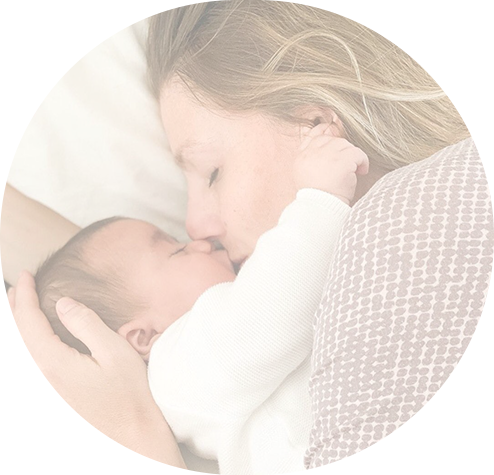
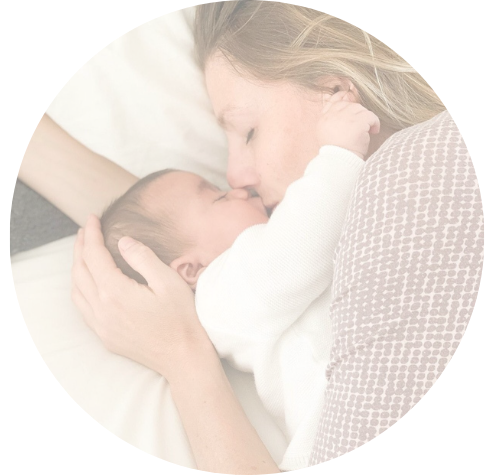
Imágenes detalle disciplina
Eliminado el carrousel. Metido a mano cada imagen

diff --git a/pages/female-health/matronas/visita_postparto/index.js b/pages/female-health/matronas/visita_postparto/index.js
@@ -108,7 +108,7 @@ const Nutrition = props => {
                   <div className={globalStyles.tinyMCEClass}>
                     <div className={'tinymce-class'}>
                       <p><strong>El posparto y la lactancia</strong> no son etapas fáciles de transitar para muchas mujeres. En ocasiones el apoyo profesional puede ser de gran ayuda.</p>
-                      <p>  </p>
+                      
                       <p>Nuestra visita posparto dura, <strong>aproximadamente, 1h30 ́</strong> y, en ella realizamos asesoramiento de lactancia, valoración de madre y bebé y resolvemos dudas relacionadas con vuestros cuidados.</p>
                     </div>
                   </div>
@@ -134,7 +134,11 @@ const Nutrition = props => {
                 </div>
               )}
               <div className={viewport === 'mobile' ? styles.m_carouselSection : styles.carouselSection}>
-                <CarouselService sliderData={sliderData} viewport={viewport} />
+                <img
+                      src={'/images/Matrona_postparto_1.png'}
+                      alt=""
+                      style={{ width: '100%', height: 'auto', opacity: 1 }}
+                    />
               </div>
             </div>
           </div>

diff --git a/pages/female-health/matronas/puesta_pendientes/index.js b/pages/female-health/matronas/puesta_pendientes/index.js
@@ -103,7 +103,7 @@ const Nutrition = props => {
               <div className={viewport === 'mobile' ? styles.m_topDash : styles.topDash} />
               <div className={styles.topDescription + (viewport === 'mobile' ? ' mt-5' : ' mt-10 pb-20')}>
                 <div
-                  className={'relative ' + styles.text + ' ' + (readMoreCurrentState === 'less' ? '' : styles.expand)}
+                  
                 >
                   <div className={globalStyles.tinyMCEClass}>
                     <div className={'tinymce-class'}>
@@ -140,7 +140,11 @@ const Nutrition = props => {
                 </div>
               )}
               <div className={viewport === 'mobile' ? styles.m_carouselSection : styles.carouselSection}>
-                <CarouselService sliderData={sliderData} viewport={viewport} />
+                <img
+                      src={'/images/Matrona_pendientes_1.png'}
+                      alt=""
+                      style={{ width: '100%', height: 'auto', opacity: 1 }}
+                    />
               </div>
             </div>
           </div>

diff --git a/pages/salud-baby/asesoria-del-sueno-infantil/index.js b/pages/salud-baby/asesoria-del-sueno-infantil/index.js
@@ -132,8 +132,13 @@ const Nutrition = props => {
                   <CircularMark viewport={viewport} />
                 </div>
               )}
-              <div className={viewport === 'mobile' ? styles.m_carouselSection : styles.carouselSection}>
-                <CarouselService sliderData={sliderData} viewport={viewport} />
+              <div className={viewport === 'mobile'}>
+                <div className={'w-full mt-20 pb-20'}>
+                  <img
+                    src={'/images/baby_sueno_1.png'} alt="Asesoría del sueño infantil"
+                    style={{ width: '100%', height: 'auto', opacity: 1 }}
+                  />
+                </div>
               </div>
             </div>
           </div>

diff --git a/pages/female-health/matronas/programa_5P/index.js b/pages/female-health/matronas/programa_5P/index.js
@@ -142,7 +142,11 @@ const Nutrition = props => {
                 </div>
               )}
               <div className={viewport === 'mobile' ? styles.m_carouselSection : styles.carouselSection}>
-                <CarouselService sliderData={sliderData} viewport={viewport} />
+                <img
+                      src={'/images/Matrona_5p_1.png'}
+                      alt=""
+                      style={{ width: '100%', height: 'auto', opacity: 1 }}
+                    />
               </div>
             </div>
           </div>

diff --git a/pages/salud-baby/asesoria-de-la-lactancia/index.js b/pages/salud-baby/asesoria-de-la-lactancia/index.js
@@ -140,7 +140,10 @@ const Nutrition = props => {
                 </div>
               )}
               <div className={viewport === 'mobile' ? styles.m_carouselSection : styles.carouselSection}>
-                <CarouselService sliderData={sliderData} viewport={viewport} />
+                <img
+                  src={'/images/baby_lactancia_1.png'} alt="Asesoría de la lactancia"
+                  style={{ width: '100%', height: 'auto', opacity: 1 }}
+                />
               </div>
             </div>
           </div>

diff --git a/pages/salud-baby/fisioterapia-pediatrica/index.js b/pages/salud-baby/fisioterapia-pediatrica/index.js
@@ -134,7 +134,10 @@ const Nutrition = props => {
                 </div>
               )}
               <div className={viewport === 'mobile' ? styles.m_carouselSection : styles.carouselSection}>
-                <CarouselService sliderData={sliderData} viewport={viewport} />
+              <img
+                  src={'/images/baby_fisio_1.png'} alt="Asesoría del sueño infantil"
+                  style={{ width: '100%', height: 'auto', opacity: 1 }}
+                />
               </div>
             </div>
           </div>

diff --git a/styles/GlobalStyles.module.scss b/styles/GlobalStyles.module.scss
@@ -96,6 +96,7 @@
       color: #818e8e;
       line-height: 28px;
       padding-bottom: 5px;
+      font-weight: 400;
     }
     p {
       font-family: 'Montserrat', sans-serif;
@@ -103,8 +104,11 @@
       color: #818e8e;
       line-height: 28px;
       padding-bottom: 10px;
-    }
-    .bold {
+      span{
+          font-weight: 600;
+        }
+      }
+  .bold {
       font-weight: 600;
     }
 
